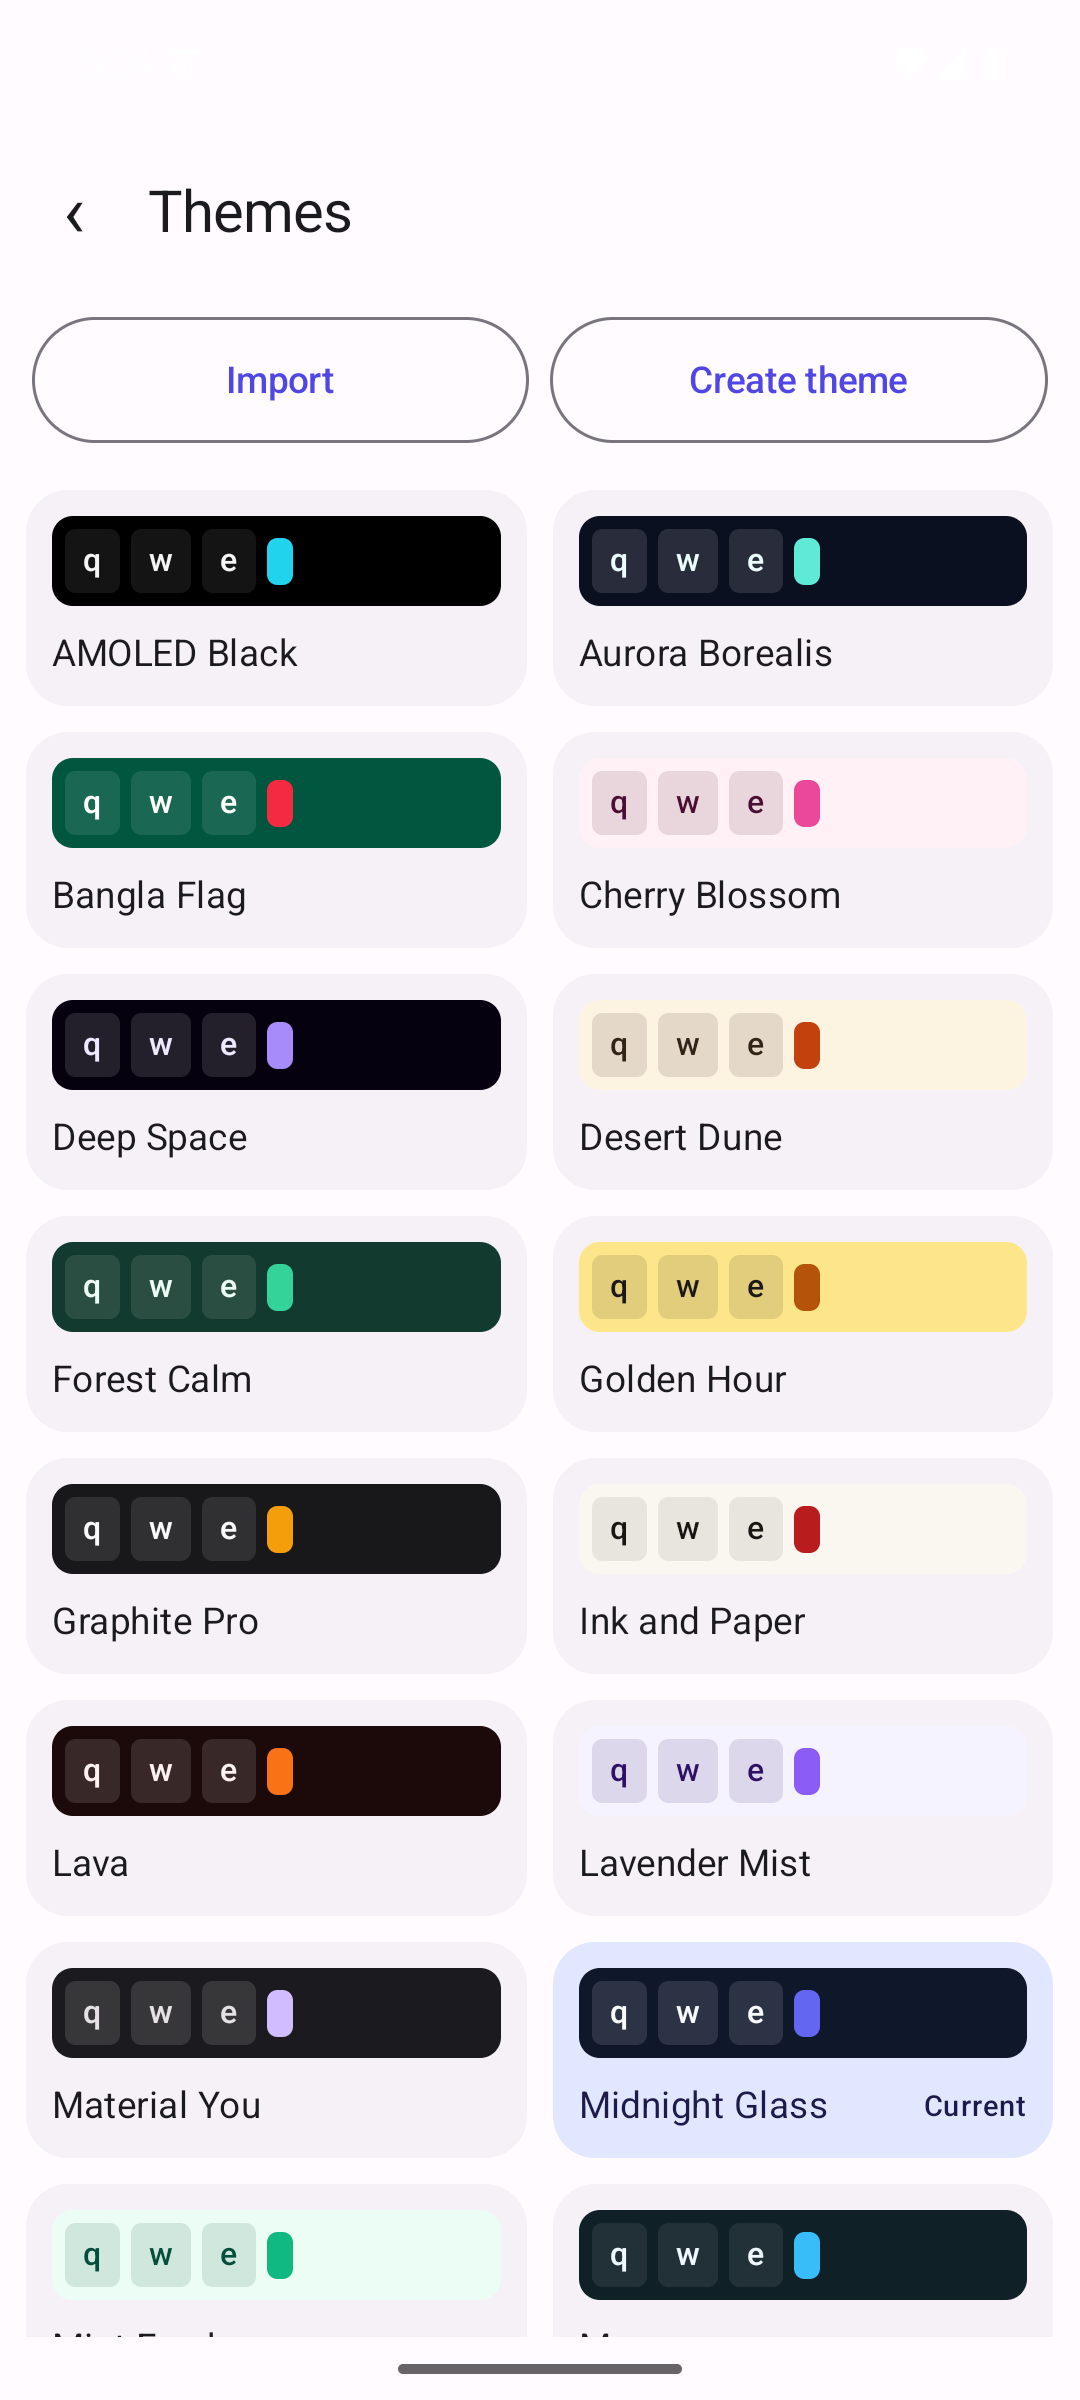
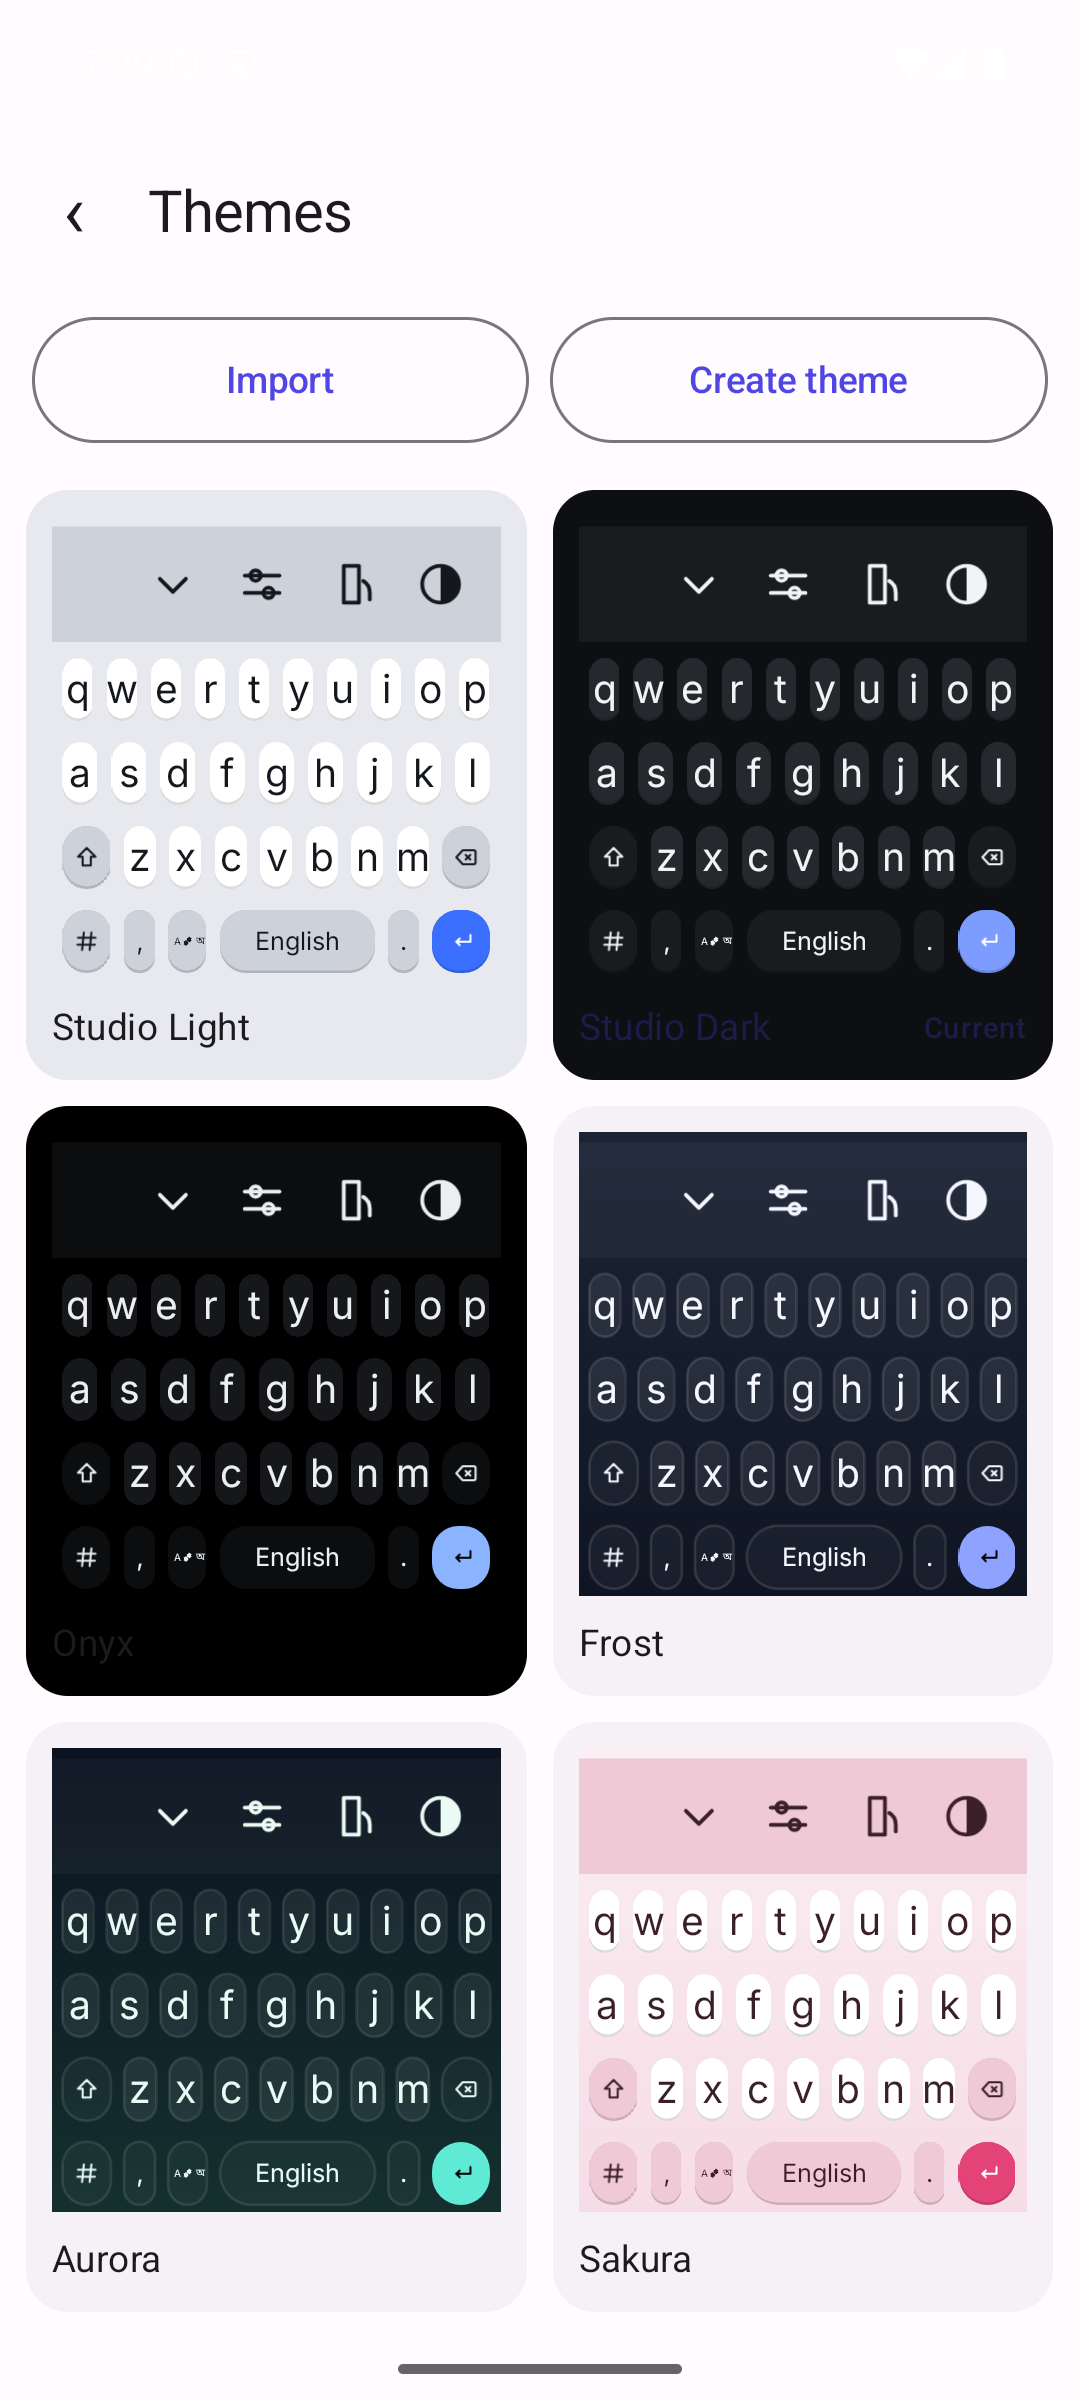
fix(ime): use the bundled font file as-is
Typeface.create(Typeface, weight, italic) is API 28 while minSdk is 26, so lint failed and Android 8.0/8.1 would have hit NoSuchMethodError. The shipped files already carry the weight (Regular/Medium).

diff --git a/app/src/main/java/app/shobdo/keyboard/ime/FontSet.kt b/app/src/main/java/app/shobdo/keyboard/ime/FontSet.kt
@@ -15,11 +15,11 @@ import app.shobdo.keyboard.theme.FontRole
  */
 class FontSet(context: Context) {
 
-    val latinRegular: Typeface = load(context, "fonts/Inter-Regular.ttf", Typeface.NORMAL, 400)
-    val latinMedium: Typeface = load(context, "fonts/Inter-Medium.ttf", Typeface.NORMAL, 500)
-    val banglaRegular: Typeface = load(context, "fonts/NotoSansBengali-Regular.ttf", Typeface.NORMAL, 400)
-    val banglaMedium: Typeface = load(context, "fonts/NotoSansBengali-Medium.ttf", Typeface.NORMAL, 500)
-    val pixel: Typeface = load(context, "fonts/PixelifySans-Regular.ttf", Typeface.NORMAL, 400)
+    val latinRegular: Typeface = load(context, "fonts/Inter-Regular.ttf", Typeface.NORMAL)
+    val latinMedium: Typeface = load(context, "fonts/Inter-Medium.ttf", Typeface.NORMAL)
+    val banglaRegular: Typeface = load(context, "fonts/NotoSansBengali-Regular.ttf", Typeface.NORMAL)
+    val banglaMedium: Typeface = load(context, "fonts/NotoSansBengali-Medium.ttf", Typeface.NORMAL)
+    val pixel: Typeface = load(context, "fonts/PixelifySans-Regular.ttf", Typeface.NORMAL)
 
     /** Latin family for a theme that asks for a specific role. */
     fun latin(role: FontRole): Typeface = when (role) {
@@ -31,9 +31,10 @@ class FontSet(context: Context) {
 
     fun latin(bold: Boolean): Typeface = if (bold) latinMedium else latinRegular
 
-    private fun load(context: Context, path: String, style: Int, weight: Int): Typeface {
-        val loaded = runCatching { Typeface.createFromAsset(context.assets, path) }.getOrNull()
-            ?: return Typeface.create(Typeface.DEFAULT, style)
-        return Typeface.create(loaded, weight, false)
+    private fun load(context: Context, path: String, style: Int): Typeface {
+        // The asset is already the weight we want (Regular or Medium), so it is used as-is.
+        // Typeface.create(Typeface, weight, italic) is API 28 and minSdk is 26.
+        return runCatching { Typeface.createFromAsset(context.assets, path) }.getOrNull()
+            ?: Typeface.create(Typeface.DEFAULT, style)
     }
 }
